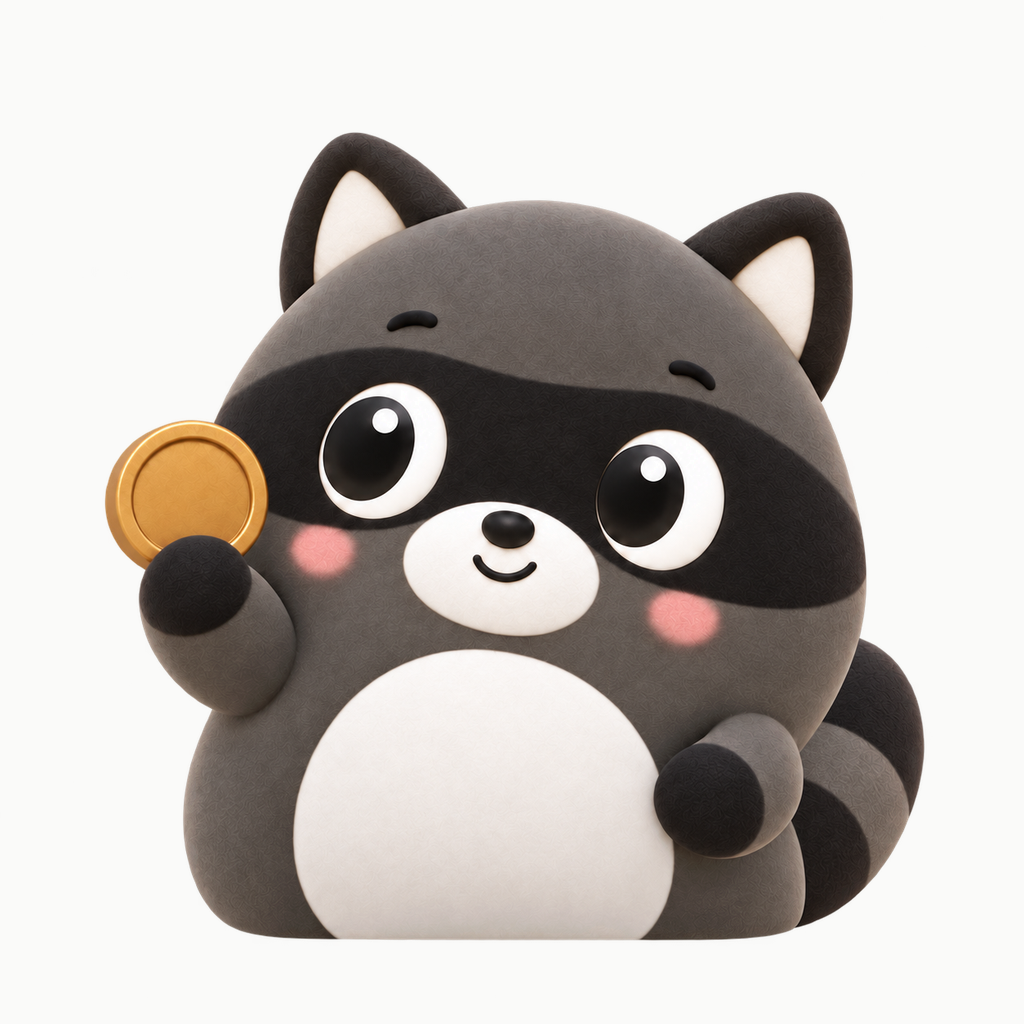
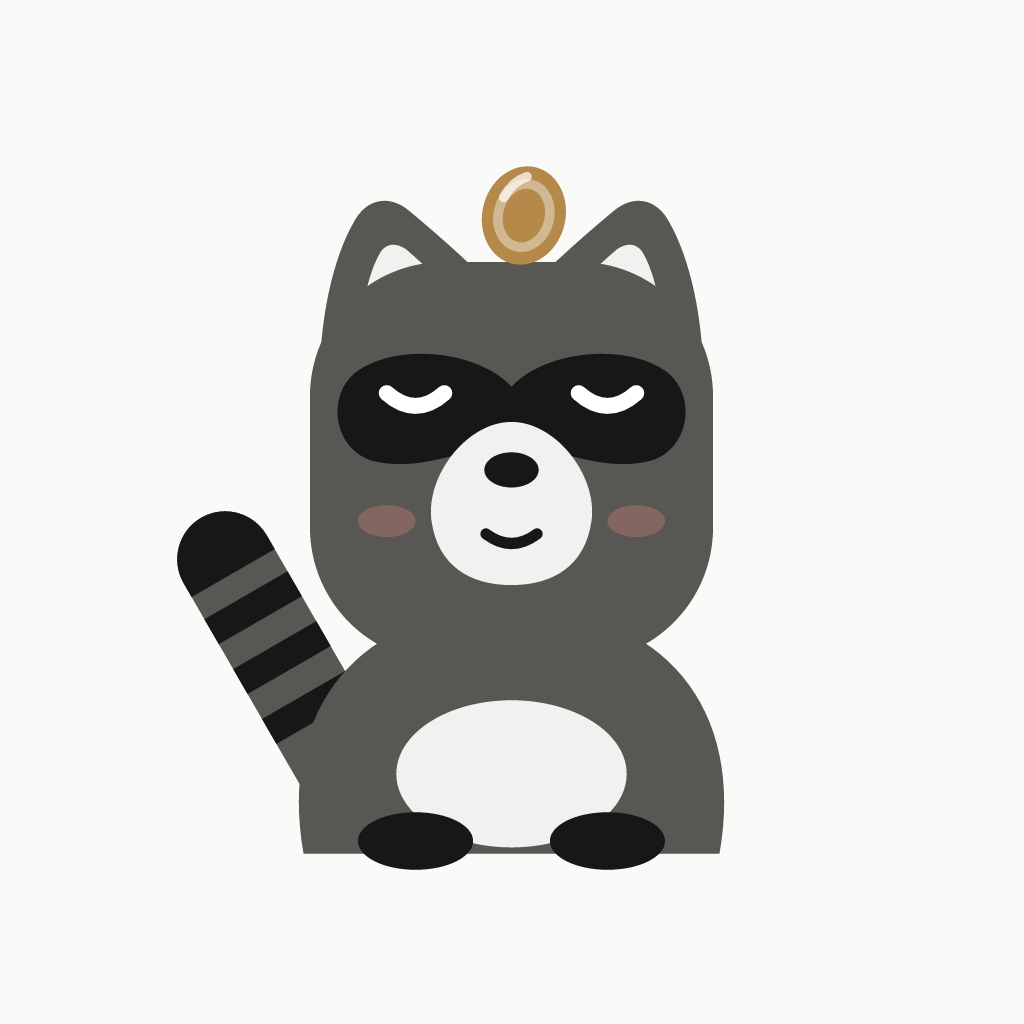
feat(mobile): flat vector Rocky in Capy's style
Icons, splash, favicon and the idle/success poses now come from the
flat kit (saliougaye/mascots PR #4, 26c1579) instead of the 3D clay
render. The poses are the kit's stills rendered at 480 px.

The new PNGs fill more of the canvas and carry the coin on his head,
so the mascot token is re-measured: trimTop 0.02 (the success coin),
peek sizes 95/76 so the window cuts between chin and belly in both
poses, celebrate 124 to keep the old visual size.

Roadmap: mascot states marked done; Lottie states left open.

diff --git a/packages/ui/src/tokens.ts b/packages/ui/src/tokens.ts
@@ -340,10 +340,13 @@ export const emptyState = {
  * is how much of him shows above it, and he rises `peekFromRatio` of his height to get there.
  */
 export const mascot = {
-  /** Transparent margin above his ears in both PNGs (their alpha starts at 18%), cut away. */
-  trimTop: 0.16,
-  /** Over the back of the ghost stack: from his ears to his coin. */
-  emptySize: 104,
+  /**
+   * Transparent margin above the coin on his head, cut away. `success` catches him mid-hop, so its
+   * coin sits highest (alpha from 2.3%); `idle` keeps a sliver more above it.
+   */
+  trimTop: 0.02,
+  /** Over the back of the ghost stack: from his coin to below his chin. */
+  emptySize: 95,
   emptyWindow: 60,
   /**
    * How far the window runs into the stack's box. The tilt puts the ghosts' visible top edge well
@@ -353,13 +356,13 @@ export const mascot = {
   /** Starts while the back ghosts settle; lands after the whole stack (`enterMs` + 2 staggers). */
   emptyDelayMs: 240,
   /** Over a reached goal's card, near its trailing corner. */
-  cardSize: 84,
+  cardSize: 76,
   cardWindow: 48,
   cardInset: 18,
   peekFromRatio: 0.62,
   peekMs: 520,
   /** Whole, in the close sheet of a reached goal. */
-  celebrateSize: 136,
+  celebrateSize: 124,
   celebrateMs: 560,
   celebrateFromScale: 0.9,
   celebrateFromY: 14,

diff --git a/packages/ui/src/tokens.test.ts b/packages/ui/src/tokens.test.ts
@@ -166,15 +166,20 @@ describe('mascot', () => {
     expect(mascot.cardWindow).toBeLessThan(mascot.cardSize);
   });
 
-  it('cuts him below his chin, not across his face', () => {
-    // His muzzle ends at about 60% of the PNG; the cut must fall under it.
-    expect(mascot.emptyWindow / mascot.emptySize + mascot.trimTop).toBeGreaterThan(0.68);
-    expect(mascot.cardWindow / mascot.cardSize + mascot.trimTop).toBeGreaterThan(0.68);
+  it('cuts him between his chin and his belly', () => {
+    // In the PNGs his muzzle ends by 58% (`idle`) and his belly starts from 68% (`success`, mid-hop).
+    for (const [window, size] of [
+      [mascot.emptyWindow, mascot.emptySize],
+      [mascot.cardWindow, mascot.cardSize],
+    ] as const) {
+      expect(window / size + mascot.trimTop).toBeGreaterThan(0.6);
+      expect(window / size + mascot.trimTop).toBeLessThan(0.67);
+    }
   });
 
-  it('trims only the empty margin above his ears', () => {
+  it('trims only the empty margin above his coin', () => {
     expect(mascot.trimTop).toBeGreaterThan(0);
-    expect(mascot.trimTop).toBeLessThan(0.18);
+    expect(mascot.trimTop).toBeLessThan(0.023);
   });
 
   it('starts below the edge, but never so far that he rises from nothing', () => {

diff --git a/apps/mobile/src/components/Mascot.test.tsx b/apps/mobile/src/components/Mascot.test.tsx
@@ -19,13 +19,13 @@ describe.each([false, true])('with Reduce Motion %s', (isReduced) => {
   });
 
   it('peeks, hidden from screen readers', async () => {
-    await show(<MascotPeek pose="idle" size={104} window={60} />);
+    await show(<MascotPeek pose="idle" size={95} window={60} />);
     expect(screen.getByTestId('mascot', { includeHiddenElements: true })).toBeTruthy();
     expect(screen.queryByTestId('mascot')).toBeNull();
   });
 
   it('celebrates, hidden from screen readers', async () => {
-    await show(<MascotCelebrate size={136} />);
+    await show(<MascotCelebrate size={124} />);
     expect(screen.getByTestId('mascot', { includeHiddenElements: true })).toBeTruthy();
     expect(screen.queryByTestId('mascot')).toBeNull();
   });

diff --git a/apps/mobile/src/components/Mascot.tsx b/apps/mobile/src/components/Mascot.tsx
@@ -70,7 +70,7 @@ export function MascotPeek({ pose, size, window, delayMs = 0, style }: MascotPee
       {...HIDDEN}
       style={[{ width: size, height: window, overflow: 'hidden' }, style]}
     >
-      {/* The PNG's empty margin above his ears would waste the top of the window. */}
+      {/* The PNG's empty margin above his coin would waste the top of the window. */}
       <Animated.View style={[{ marginTop: -size * mascot.trimTop }, rising]}>
         <Image source={POSES[pose]} style={{ width: size, height: size }} resizeMode="contain" />
       </Animated.View>

diff --git a/apps/mobile/app.config.ts b/apps/mobile/app.config.ts
@@ -14,7 +14,7 @@ const config: ExpoConfig = {
   assetBundlePatterns: ['**/*'],
   /**
    * Saldo's mark is Rocky, the raccoon mascot. Its asset kit is generated in
-   * github.com/saliougaye/mascots (branch `mascot/saldo`, `out/saldo/icons/`); the files here are
+   * github.com/saliougaye/mascots (`out/saldo/icons/`); the files here are
    * copies of it, so change the mascot there and copy them back. This fallback covers web and
    * anything that ignores the per-platform icons below.
    */

diff --git a/ROADMAP.md b/ROADMAP.md
@@ -150,12 +150,20 @@ This reopens a decision taken at 08 (sign-in required), so it is a product call,
 
 ### Mascot states
 
-Moved here from `TODO.md` on 2026-09-22. The mark is Rocky, the 3D raccoon generated in
-github.com/saliougaye/mascots (branch `mascot/saldo`); the app icons, splash and favicon in `apps/mobile/assets/`
-are copies of its `out/saldo/icons/`.
+Moved here from `TODO.md` on 2026-09-22. The mark is Rocky, the raccoon generated in
+github.com/saliougaye/mascots; the app icons, splash and favicon in `apps/mobile/assets/` are copies of its
+`out/saldo/icons/`, the two poses in `apps/mobile/assets/mascot/` are its `stills/idle.svg` and `stills/success.svg`
+rendered at 480 px.
 
-The kit also carries Lottie state animations and illustrations (empty, loading, error, success, thinking, idle).
-The empty states (§13) are the obvious first use: variant D of their design review would replace `GhostStack`.
+The kit also carries Lottie state animations (idle, empty, loading, thinking, error, success, wave, sleep).
+
+- [x] Where Rocky appears (2026-09-24, spec D26, §13 *Mascot*, plan `docs/superpowers/plans/2026-09-24-mascot-states.md`):
+  peeking over the «nothing yet» ghost stack, over a reached goal's card, and whole in its close sheet. Static PNGs,
+  no Lottie.
+- [x] Rocky redrawn as a flat vector character in the style of SmoothPressure's Capy (2026-09-25, mascots PR #4),
+  replacing the 3D clay render: new icons, splash, favicon and poses; the `mascot` token re-measured on the new PNGs.
+- [ ] Lottie states (loading, error, wave, sleep) where D26 allows them: needs `lottie-react-native` and a decision
+  per screen, so it waits for a place that asks for it (the first-run intro below is the likely one, with `wave`).
 
 ### In-app explanations: a first-run intro and a «Guida»
 
